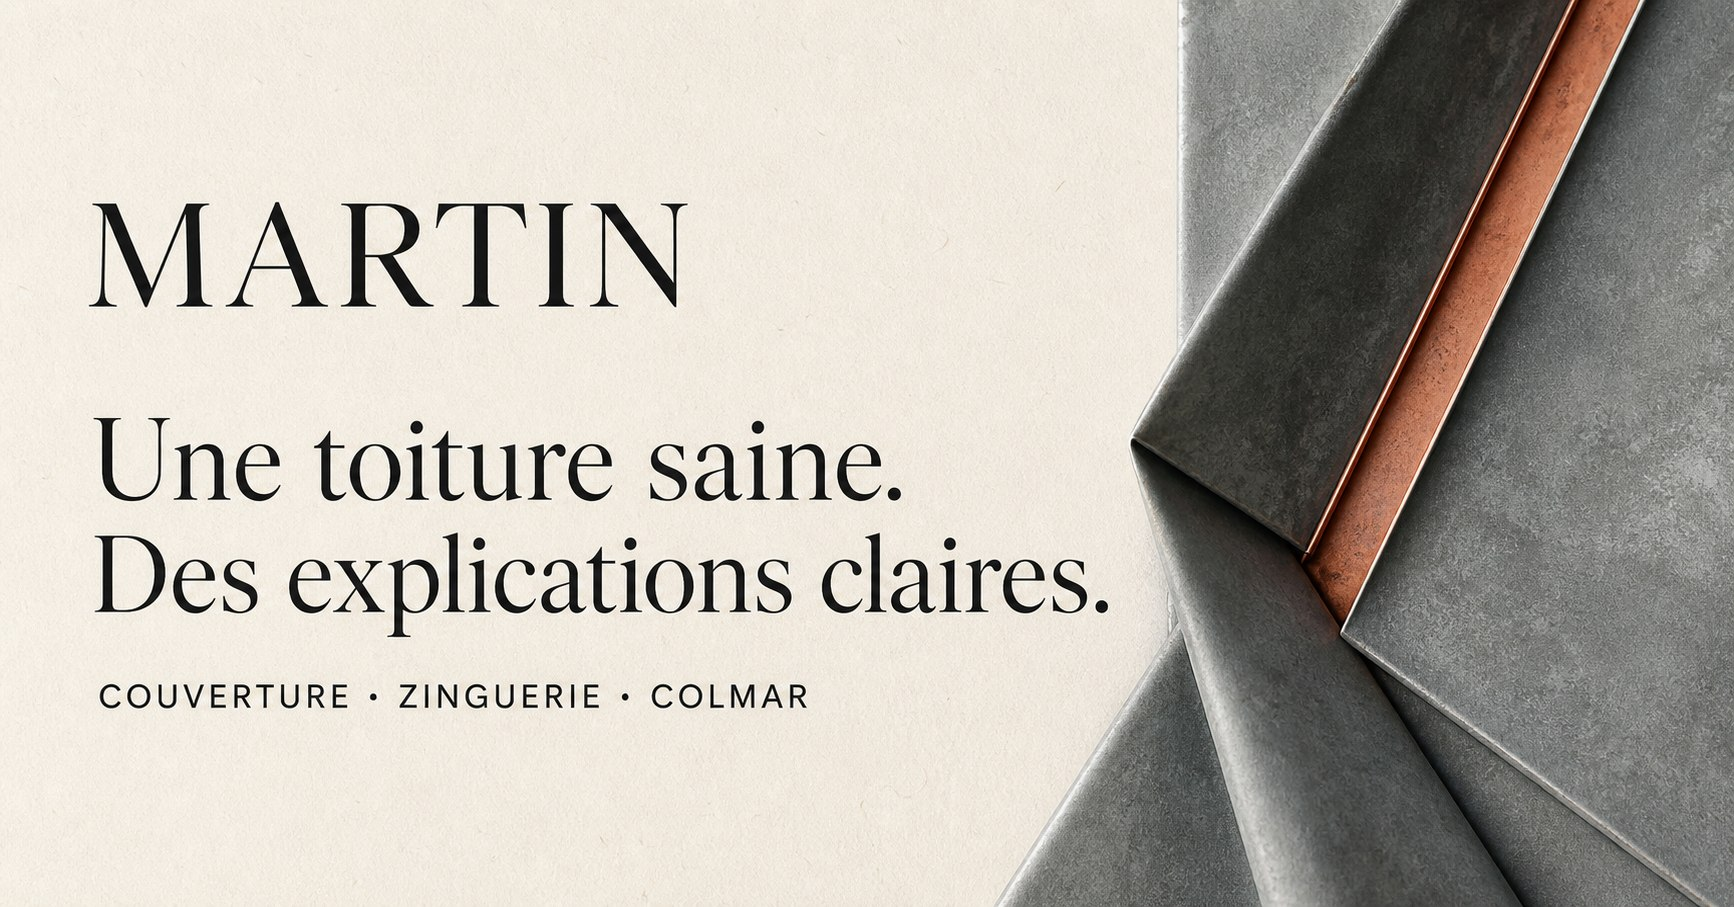
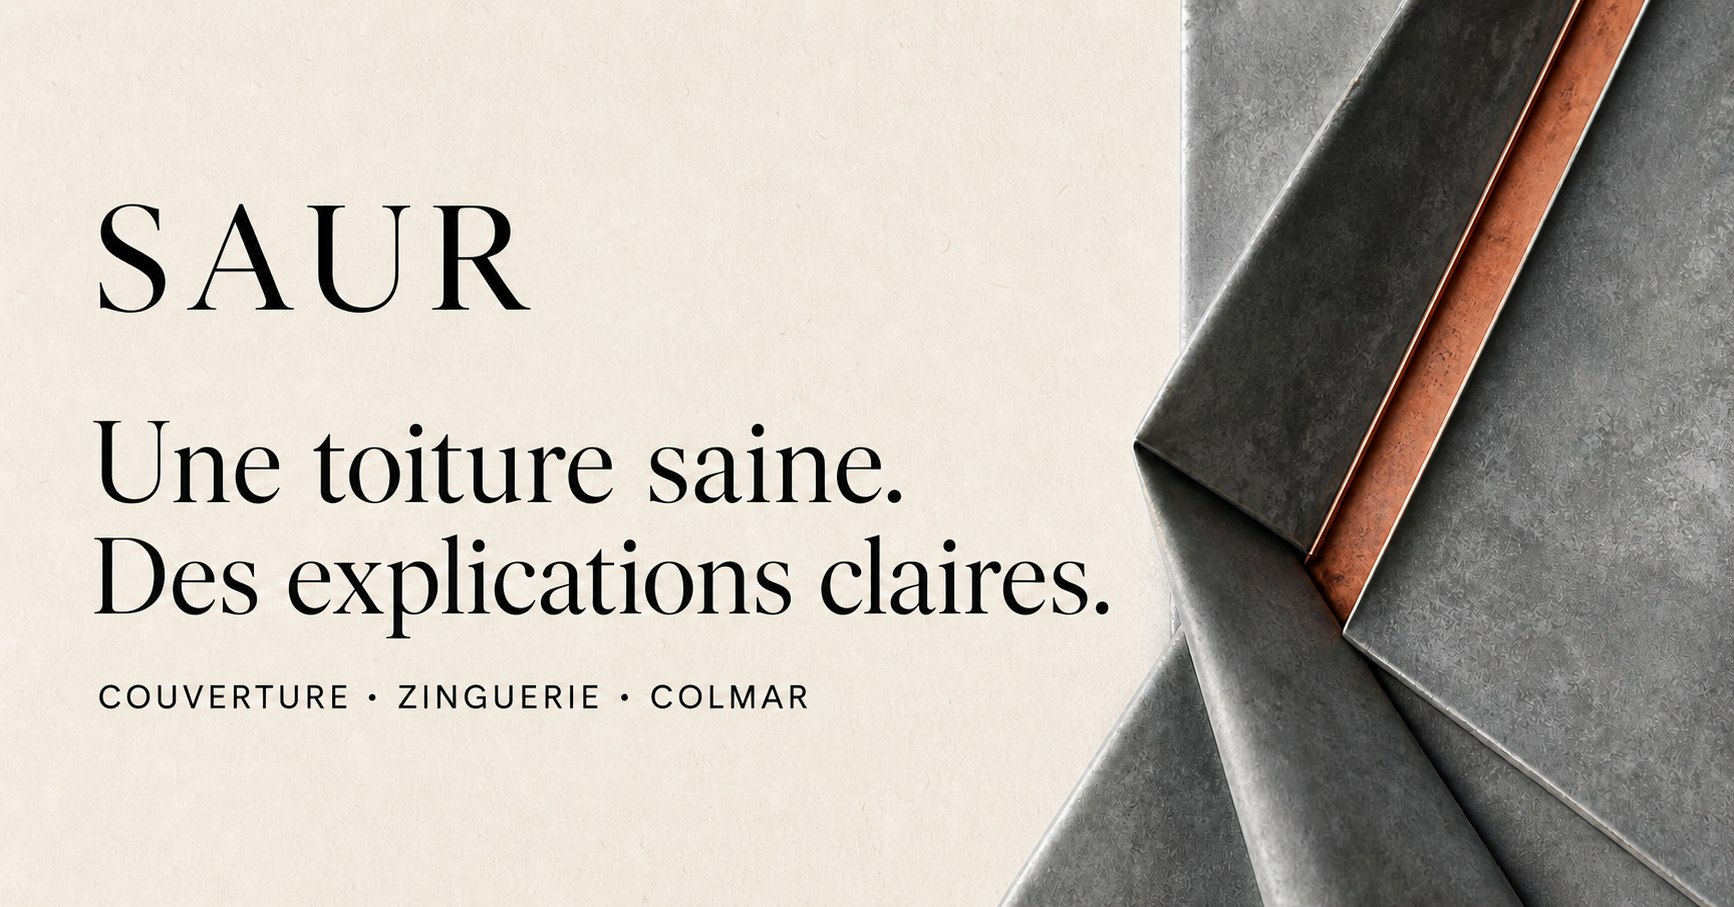
Rename Martin brand to Saur

diff --git a/app/devis/QuoteWizard.tsx b/app/devis/QuoteWizard.tsx
@@ -61,7 +61,7 @@ export function QuoteWizard() {
   useEffect(() => {
     const hydrateFromClient = () => {
       try {
-        const saved = window.localStorage.getItem("martin-quote-draft");
+        const saved = window.localStorage.getItem("saur-quote-draft");
         const nextData = saved ? { ...initialData, ...JSON.parse(saved), consent: false } : initialData;
         const parameters = new URLSearchParams(window.location.search);
         const servicePrefill = prefillByService[parameters.get("prestation") ?? ""];
@@ -92,7 +92,7 @@ export function QuoteWizard() {
 
   useEffect(() => {
     if (submitted || !hydrated) return;
-    try { window.localStorage.setItem("martin-quote-draft", JSON.stringify(data)); }
+    try { window.localStorage.setItem("saur-quote-draft", JSON.stringify(data)); }
     catch { /* Ignore storage restrictions. */ }
   }, [data, hydrated, submitted]);
 
@@ -141,7 +141,7 @@ export function QuoteWizard() {
     const message = validateStep();
     if (message) return setError(message);
     setSubmitted(true);
-    window.localStorage.removeItem("martin-quote-draft");
+    window.localStorage.removeItem("saur-quote-draft");
   };
 
   const needLabel = data.sourceService || needs.find(([value]) => value === data.need)?.[1] || "À préciser";
@@ -151,7 +151,7 @@ export function QuoteWizard() {
     <main className="quote-app" id="main-content">
       <header className="quote-header">
         <Link className="brand brand--quote" href="/" aria-label="Retour à l’accueil">
-          <span className="brand__name">MARTIN</span><span className="brand__trade">Couverture · Zinguerie</span>
+          <span className="brand__name">SAUR</span><span className="brand__trade">Couverture · Zinguerie</span>
         </Link>
         <span className="quote-header__promise">Simulation en 2 minutes</span>
         <Link href="/contact">Besoin d’aide ? <strong>Contact démo</strong></Link>

diff --git a/app/layout.tsx b/app/layout.tsx
@@ -16,12 +16,12 @@ export async function generateMetadata(): Promise<Metadata> {
   let origin: URL | undefined;
   try { if (host) origin = new URL(`${protocol}://${host}`); } catch { origin = undefined; }
   const image = origin ? new URL("/og.jpg", origin).toString() : undefined;
-  const title = "Démonstration — Martin, couverture & zinguerie";
+  const title = "Démonstration — Saur, couverture & zinguerie";
   const description = "Prototype fictif d’un site de couvreur-zingueur à Colmar : contenus, coordonnées et réalisations à remplacer.";
 
   return {
     metadataBase: origin,
-    title: { default: title, template: "%s | Démonstration Martin Couverture" },
+    title: { default: title, template: "%s | Démonstration Saur Couverture" },
     description,
     robots: { index: false, follow: false, noarchive: true, nocache: true },
     openGraph: {
@@ -29,7 +29,7 @@ export async function generateMetadata(): Promise<Metadata> {
       description,
       locale: "fr_FR",
       type: "website",
-      images: image ? [{ url: image, width: 1736, height: 907, alt: "Martin — Une toiture saine. Des explications claires." }] : [],
+      images: image ? [{ url: image, width: 1734, height: 907, alt: "Saur — Une toiture saine. Des explications claires." }] : [],
     },
     twitter: {
       card: image ? "summary_large_image" : "summary",

diff --git a/app/realisations/[slug]/page.tsx b/app/realisations/[slug]/page.tsx
@@ -68,7 +68,7 @@ export async function generateMetadata({
     ? new URL(project.image, origin).toString()
     : undefined;
   const title = `Démonstration — ${project.title} — ${project.location}`;
-  const socialTitle = `${title} | Martin Couverture`;
+  const socialTitle = `${title} | Saur Couverture`;
   const description = `Cas fictif et composite. ${project.short} ${project.surface}, ${project.material}, ${project.duration}.`;
   const socialImage = imageUrl
     ? [{ url: imageUrl, alt: project.alt }]
@@ -132,7 +132,7 @@ export default async function ProjectDetailPage({ params }: ProjectPageProps) {
                 <h1>{project.title}</h1>
                 <p className="project-hero__lead">{project.short}</p>
                 <p className="site-disclaimer" role="note">
-                  Les données et le récit ci-dessous sont composites. Ils ne décrivent aucun chantier réel de Martin.
+                  Les données et le récit ci-dessous sont composites. Ils ne décrivent aucun chantier réel de Saur.
                 </p>
               </div>
 

diff --git a/app/components/SiteHeader.tsx b/app/components/SiteHeader.tsx
@@ -54,8 +54,8 @@ export function SiteHeader() {
     <>
       <header className="site-header">
         <a className="skip-link" href="#main-content">Aller au contenu</a>
-        <Link className="brand" href="/" aria-label="Martin, accueil">
-          <span className="brand__name">MARTIN</span>
+        <Link className="brand" href="/" aria-label="Saur, accueil">
+          <span className="brand__name">SAUR</span>
           <span className="brand__trade">Couverture · Zinguerie</span>
         </Link>
 
@@ -89,7 +89,7 @@ export function SiteHeader() {
         {open && (
           <div aria-labelledby="mobile-menu-title" className="mobile-menu" id="mobile-menu" role="dialog" aria-modal="true">
             <div className="mobile-menu__top">
-              <span className="brand__name" id="mobile-menu-title">MARTIN</span>
+              <span className="brand__name" id="mobile-menu-title">SAUR</span>
               <button
                 aria-label="Fermer le menu"
                 className="menu-close"

diff --git a/app/components/SiteFooter.tsx b/app/components/SiteFooter.tsx
@@ -21,8 +21,8 @@ export function SiteFooter() {
 
       <div className="site-footer__main">
         <div className="site-footer__brand">
-          <Link className="brand brand--footer" href="/" aria-label="Martin, retour à l’accueil">
-            <span className="brand__name">MARTIN</span>
+          <Link className="brand brand--footer" href="/" aria-label="Saur, retour à l’accueil">
+            <span className="brand__name">SAUR</span>
             <span className="brand__trade">Couverture · Zinguerie</span>
           </Link>
           <p className="site-footer__tagline">
@@ -48,7 +48,7 @@ export function SiteFooter() {
       </div>
 
       <div className="site-footer__bottom">
-        <span>Prototype Martin · aucune preuve commerciale publiée</span>
+        <span>Prototype Saur · aucune preuve commerciale publiée</span>
         <nav aria-label="Informations légales">
           {utilityLinks.map((item) => (
             <Link href={item.href} key={item.href}>{item.label}</Link>

diff --git a/app/confidentialite/page.tsx b/app/confidentialite/page.tsx
@@ -35,7 +35,7 @@ export default function PrivacyPage() {
             <article className="privacy-summary__item">
               <span>02</span>
               <h2>Brouillon sur l’appareil</h2>
-              <p>Le navigateur utilise un stockage local nommé « martin-quote-draft » pour permettre de reprendre le parcours.</p>
+              <p>Le navigateur utilise un stockage local nommé « saur-quote-draft » pour permettre de reprendre le parcours.</p>
             </article>
             <article className="privacy-summary__item">
               <span>03</span>

diff --git a/app/contact/page.tsx b/app/contact/page.tsx
@@ -48,7 +48,7 @@ export default function ContactPage() {
               <h2>Adresse de démonstration.</h2>
               <p>Cette adresse utilise un domaine réservé et ne correspond à aucune boîte de l’entreprise.</p>
               <span className="contact-card__value">
-                bonjour@martin-couverture.example
+                bonjour@saur-couverture.example
               </span>
               <Link className="text-link" href="/confidentialite">Comment les données seront traitées</Link>
             </article>

diff --git a/app/mentions-legales/page.tsx b/app/mentions-legales/page.tsx
@@ -5,7 +5,7 @@ import { SiteHeader } from "@/app/components/SiteHeader";
 
 export const metadata: Metadata = {
   title: "Mentions légales",
-  description: "État des informations légales à compléter avant la publication commerciale du site de démonstration Martin.",
+  description: "État des informations légales à compléter avant la publication commerciale du site de démonstration Saur.",
 };
 
 const legalSections = [

diff --git a/app/urgence-toiture/page.tsx b/app/urgence-toiture/page.tsx
@@ -52,7 +52,7 @@ export default function EmergencyRoofPage() {
               src="/images/gutter-detail.jpg"
               width="1200"
             />
-            <figcaption className="page-hero__caption">Image illustrative · pas une intervention Martin</figcaption>
+            <figcaption className="page-hero__caption">Image illustrative · pas une intervention Saur</figcaption>
           </figure>
         </section>
 

diff --git a/app/realisations/page.tsx b/app/realisations/page.tsx
@@ -13,14 +13,14 @@ export const metadata: Metadata = {
   title,
   description,
   openGraph: {
-    title: `${title} | Martin Couverture`,
+    title: `${title} | Saur Couverture`,
     description,
     type: "website",
     locale: "fr_FR",
   },
   twitter: {
     card: "summary",
-    title: `${title} | Martin Couverture`,
+    title: `${title} | Saur Couverture`,
     description,
   },
 };

diff --git a/app/page.tsx b/app/page.tsx
@@ -7,7 +7,7 @@ import { SiteHeader } from "./components/SiteHeader";
 import { projects, services } from "./data/siteData";
 
 export const metadata: Metadata = {
-  title: "Martin — Couverture & zinguerie à Colmar",
+  title: "Saur — Couverture & zinguerie à Colmar",
   description: "Diagnostic, réparation et rénovation de toiture à Colmar et dans la vallée de Munster.",
 };
 

diff --git a/app/prestations/[slug]/page.tsx b/app/prestations/[slug]/page.tsx
@@ -44,7 +44,7 @@ export async function generateMetadata({
     openGraph: {
       type: "article",
       locale: "fr_FR",
-      siteName: "Démonstration Martin Couverture",
+      siteName: "Démonstration Saur Couverture",
       url: pageUrl,
       title: socialTitle,
       description: `Contenu fictif à adapter. ${service.short}`,
